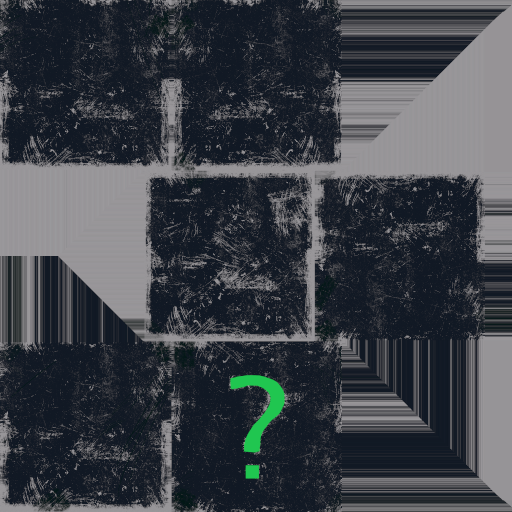
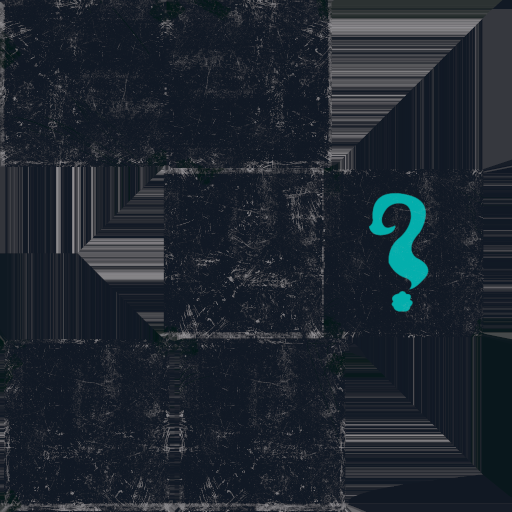
死んだときの演出追加

diff --git a/Assets/Scripts/Stage/Player/Player.cs b/Assets/Scripts/Stage/Player/Player.cs
@@ -79,16 +79,16 @@ public class Player : MonoBehaviour {
 
 	private Image filter;
 
-	private bool isAlive = true;
-	private enum GameoverMode {
-		GHOST,
-		TIMEUP,
-	}
-	private GameoverMode gameoverMode;
+	[HideInInspector]
+	public bool isAlive = true;
 
 	public Material timeupIcon;
 	public Material ghostIcon;
 	public GameObject deathReasonIcon;
+
+	private float rewindTimer;
+	private const float rewindInterval = 0.2f;
+	private int rewindIndex;
 
 	private void Awake() {
 		actionRecord = new List<ActionRecord>();
@@ -116,7 +116,7 @@ public class Player : MonoBehaviour {
 			UpdateTurn();
 			Attack();
 		} else {
-
+			Rewind();
 		}
 	}
 
@@ -135,8 +135,7 @@ public class Player : MonoBehaviour {
 			//次の移動先に線形補完で移動する
 			canMove = false;
 			moveIntervalTimer += Time.deltaTime;
-			transform.position = Vector3.Lerp(oldStepPos, newStepPos, moveIntervalMax / moveIntervalMax) + Vector3.up * Mathf.Sin(moveIntervalTimer / moveIntervalMax * Mathf.PI);
-
+			transform.position = Vector3.Lerp(oldStepPos, newStepPos, moveIntervalTimer / moveIntervalMax) + Vector3.up * Mathf.Sin(moveIntervalTimer / moveIntervalMax * Mathf.PI);
 		}
 
 
@@ -384,8 +383,6 @@ public class Player : MonoBehaviour {
 				//フェーズがクリアできない処理
 				GameObject beforStart = Stage.instance.startBlockList[phase];
 
-
-
 				transform.position = beforStart.transform.position;
 				nowTurn = beforStart.GetComponent<StartBlock>().turnMax;
 
@@ -396,15 +393,13 @@ public class Player : MonoBehaviour {
 				Stage.instance.ResetEnemy();
 				canPhaseClear = false;
 				enemyCount = 0;
-
 				return;
 			}
 
 			if (beforePhase == -1) {
-				GhostManager.instance.AddGhost(Stage.instance.startPosition);
+				GhostManager.instance.AddGhost(Stage.instance.startPosition, transform.position);
 			} else {
-				GhostManager.instance.AddGhost(Stage.instance.startBlockList[beforePhase + 1].transform.position);
-
+				GhostManager.instance.AddGhost(Stage.instance.startBlockList[beforePhase + 1].transform.position, transform.position);
 			}
 
 			//--移動方向とアクションをGhostManagerに記録する---//
@@ -417,8 +412,6 @@ public class Player : MonoBehaviour {
 			}
 
 			isMoved = false;
-
-
 
 			if (beforePhase + 2 >= Stage.instance.startBlockList.Count) {
 				return;
@@ -446,21 +439,61 @@ public class Player : MonoBehaviour {
 	//タイムアップ演出
 	private void TimeUp() {
 		GameOver(timeupIcon);
-		gameoverMode = GameoverMode.TIMEUP;
 	}
 
 	//ゴーストでゲームオーバー演出
 	public void GhostGameOver() {
 		GameOver(ghostIcon);
-		gameoverMode = GameoverMode.GHOST;
 	}
 
 	public void GameOver(Material material) {
+		if(isAlive == false) {
+			return;
+		}
 		isAlive = false;
 		Stage.instance.nowMode = Stage.Mode.DEAD;
 		var obj = Instantiate(deathReasonIcon, transform.position + new Vector3(0, 10f, -5) * 0.8f, Quaternion.identity);
 		obj.GetComponent<Renderer>().material = material;
-		//Stage.instance.crt.enabled = true;
+		rewindIndex = actionRecord.Count - 2;
+		rewindTimer = -2;
+	}
+
+	private void Rewind() {
+		rewindTimer += Time.deltaTime;
+		if (rewindTimer >= rewindInterval) {
+			switch (actionRecord[rewindIndex]) {
+				case ActionRecord.UP:
+					transform.position -= Vector3.forward; //逆再生なのでマイナス
+					transform.localEulerAngles = Vector3.up * 180;
+					break;
+				case ActionRecord.DOWN:
+					transform.position -= Vector3.back;
+					transform.localEulerAngles = Vector3.up * -180;
+					break;
+				case ActionRecord.LEFT:
+					transform.position -= Vector3.left;
+					transform.localEulerAngles = Vector3.up * -90;
+					break;
+				case ActionRecord.RIGHT:
+					transform.position -= Vector3.right;
+					transform.localEulerAngles = Vector3.up * 90;
+					break;
+				case ActionRecord.ATTACK:
+				case ActionRecord.DAMAGE:
+				case ActionRecord.NONE:
+					break;
+			}
+			rewindIndex--;
+			rewindTimer = 0;
+			//GhostManager.instance.Rewind();
+		}
+		if(rewindIndex < 0) {
+			Stage.instance.nowMode = Stage.Mode.GAME;
+			isAlive = true;
+			Stage.instance.crt.enabled = false;
+			GhostManager.instance.ResetStage();
+			ResetStage();
+		}
 	}
 
 	public void SetPosition(Vector3 pos) {
@@ -472,5 +505,20 @@ public class Player : MonoBehaviour {
 		this.transform.position += pos;
 		newStepPos += pos;
 		oldStepPos += pos;
+	}
+
+	private void ResetStage() {
+		GameObject beforStart = Stage.instance.startBlockList[phase];
+
+		transform.position = beforStart.transform.position;
+		nowTurn = beforStart.GetComponent<StartBlock>().turnMax;
+
+		oldStepPos = Stage.instance.startBlockList[phase].transform.position;
+		newStepPos = Stage.instance.startBlockList[phase].transform.position;
+		transform.position = Stage.instance.startBlockList[phase].transform.position;
+
+		Stage.instance.ResetEnemy();
+		canPhaseClear = false;
+		enemyCount = 0;
 	}
 }
